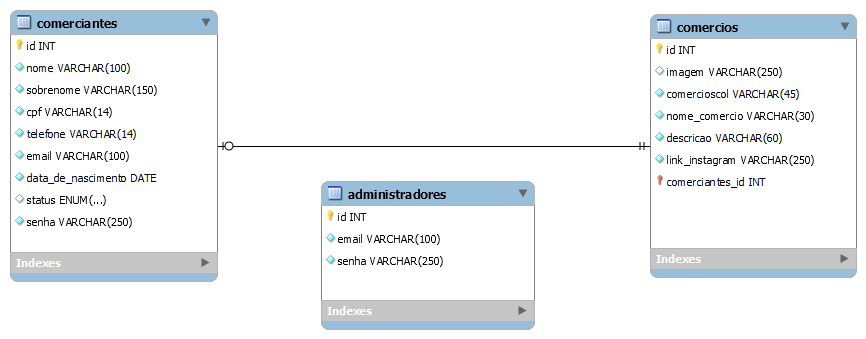
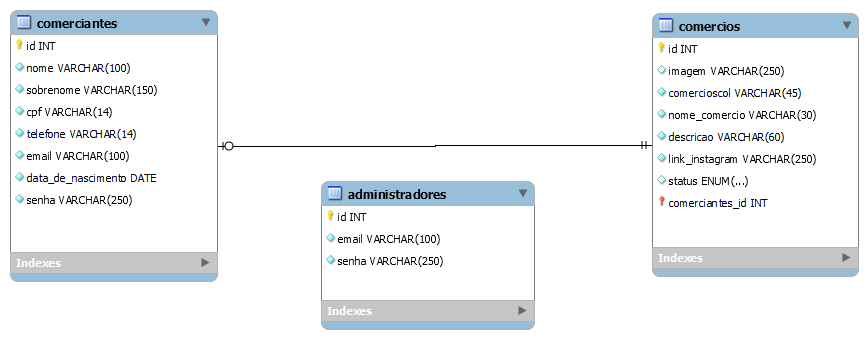
refeito banco de dados

diff --git a/comerciante/comerciante.php b/comerciante/comerciante.php
@@ -63,17 +63,17 @@ if (isset($_POST['alterar'])) {
    $senha = password_hash("senha", PASSWORD_DEFAULT);  
    
    //Inserir o cadastro no banco INSERT 
-    atualizarComerciante(
-       $conexao,
-       $id,
-       $nome,
-       $sobrenome,
-       $cpf,
-       $telefone,
-       $email,
-       formatarDataParaBanco($data_de_nascimento)
+    // atualizarComerciante(
+    //    $conexao,
+    //    $id,
+    //    $nome,
+    //    $sobrenome,
+    //    $cpf,
+    //    $telefone,
+    //    $email,
+    //    formatarDataParaBanco($data_de_nascimento)
   
-    );     
+    // );     
    //voltar para pagina login assim que finaliza o cadastro
    //header("location:login.php");
 }

diff --git a/cadastro.php b/cadastro.php
@@ -5,8 +5,7 @@
  require_once "src/funcoes-utilitarias.php";
 
 
-if (isset($_POST['cadastro'])) {
-    
+if (isset($_POST['cadastro'])) {    
 
     //Nome
     $nome = filter_input(

diff --git a/banco-de-dados/vale-a-penha.md b/banco-de-dados/vale-a-penha.md
@@ -14,8 +14,7 @@ CREATE TABLE comerciantes(
     cpf VARCHAR(14) NOT NULL,
     telefone VARCHAR(14) NOT NULL,
     email VARCHAR(100) NOT NULL,
-    data_de_nascimento DATE NOT NULL,
-    status ENUM('ativo', 'inativo') NULL DEFAULT 'inativo',
+    data_de_nascimento DATE NOT NULL,    
     senha VARCHAR(250) NOT NULL   
 ); 
 ```
@@ -28,6 +27,7 @@ CREATE TABLE comercios(
     nome_comercio VARCHAR(30) NOT NULL,
     descricao VARCHAR(60) NOT NULL,
     link_instagram VARCHAR(200) NOT NULL,
+    status ENUM('ativo', 'inativo') NULL DEFAULT 'inativo',
     comerciante_id INT NULL       
 ); 
 ```
